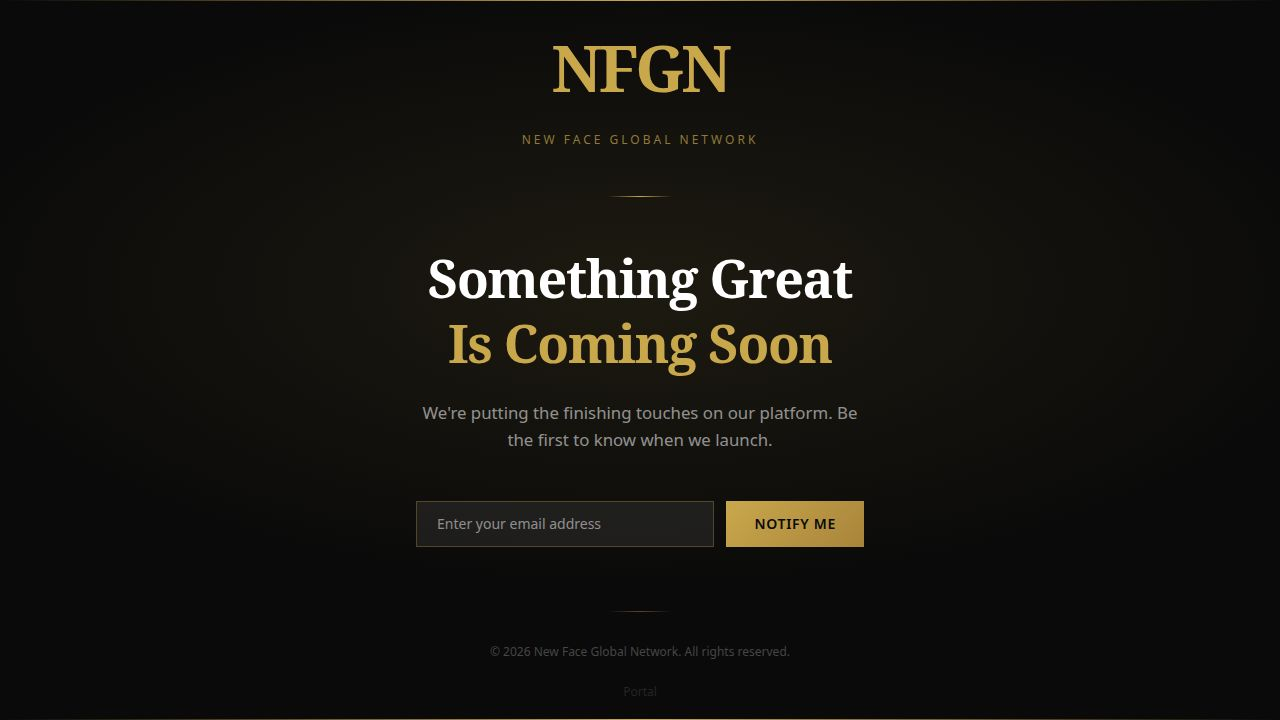
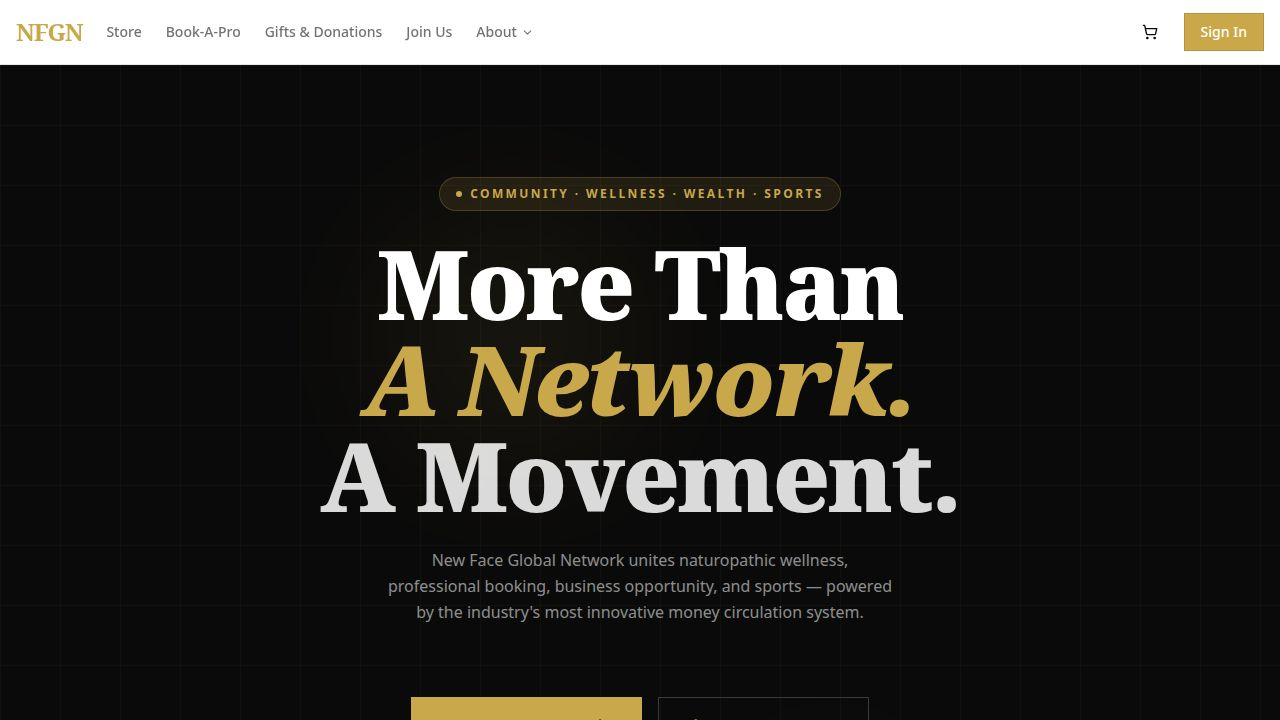
Restore the application's homepage by correcting the root route
Update App.tsx to correctly route the root path "/" to the Home component instead of the ComingSoon component.

Replit-Commit-Author: Agent
Replit-Commit-Session-Id: 0e06429d-88c3-409e-a500-bcbc5ab4b6f2
Replit-Commit-Checkpoint-Type: full_checkpoint
Replit-Commit-Event-Id: 2c102e4f-2443-4a23-a6e6-0850f778af1a
Replit-Commit-Screenshot-Url: https://storage.googleapis.com/screenshot-production-us-central1/3280747d-3245-4349-926e-ca1de22cbeb6/0e06429d-88c3-409e-a500-bcbc5ab4b6f2/KTfxC1J
Replit-Helium-Checkpoint-Created: true

diff --git a/artifacts/nfgn/src/App.tsx b/artifacts/nfgn/src/App.tsx
@@ -129,7 +129,9 @@ function Router() {
       </Route>
 
       {/* Public routes */}
-      <Route path="/" component={ComingSoon} />
+      <Route path="/">
+        <PublicLayout><Home /></PublicLayout>
+      </Route>
       <Route path="/home">
         <PublicLayout><Home /></PublicLayout>
       </Route>